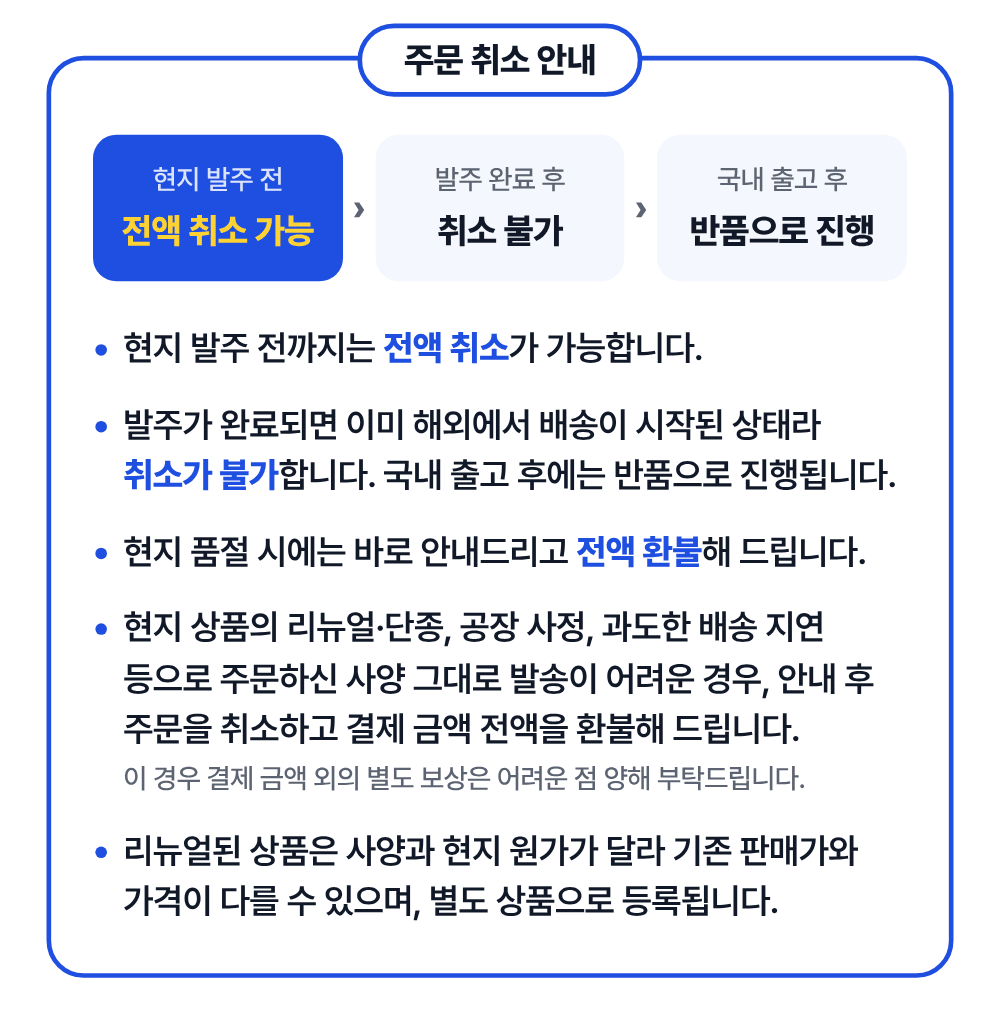
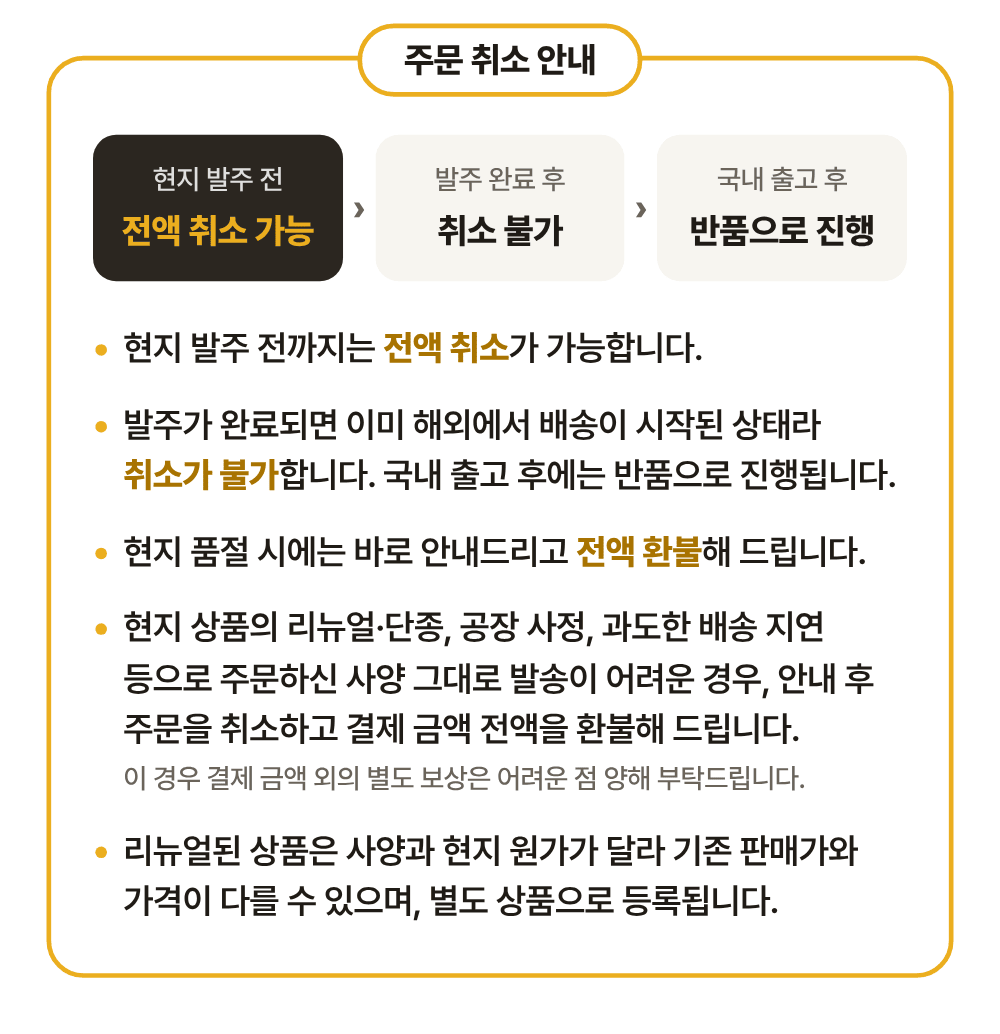
브랜드 컬러를 블루에서 차콜 + 골드로 변경
- 골드 #EBAE1F는 테두리·포인트·숫자에만, 진한 띠·블록은 차콜 #2B2620
- 흰 바탕 강조 글자는 딥 골드 #A87300, 보조면은 소프트 골드 #FCF3D9
- 로고: 골드 집 + 차콜 지구 (골드 배경용 차콜 버전 추가)
- 상단·하단·워터마크·프로필·배너·브랜드 가이드 전부 재생성

Claude-Session: https://claude.ai/code/session_01PE2ziTJ29XNj6qrJ9hNtvD

diff --git a/onnuri-design/src/bottom.html b/onnuri-design/src/bottom.html
@@ -5,85 +5,86 @@
   /* 헤더 */
   .hero { padding: 72px 40px 80px; text-align: center; }
   .hero .m { color: var(--gray); margin-bottom: 18px; }
-  .hero .notice { margin-top: 32px; display: inline-block; background: var(--main-soft); border-radius: 14px; padding: 8px 24px; color: var(--ink); }
+  .hero .notice { margin-top: 32px; display: inline-block; background: var(--gold-soft); border-radius: 14px; padding: 8px 24px; color: var(--ink); }
 
   /* 공통 글머리 목록 */
   .bul { list-style: none; margin-top: 36px; }
   .bul li { position: relative; padding-left: 26px; }
   .bul li + li { margin-top: 22px; }
-  .bul li::before { content: ""; position: absolute; left: 2px; top: 18px; width: 10px; height: 10px; border-radius: 50%; background: var(--main); }
-  .bul li b { color: var(--main); }
+  .bul li::before { content: ""; position: absolute; left: 2px; top: 18px; width: 10px; height: 10px; border-radius: 50%; background: var(--gold); }
+  .bul li b { color: var(--gold-deep); }
   .bul li .s { display: block; margin-top: 4px; }
   .sub { margin-top: 44px; padding-top: 36px; border-top: 2px dashed var(--line); }
-  .sub-t { color: var(--main); font-weight: 800; }
+  .sub-t { color: var(--gold-deep); font-weight: 800; }
 
-  /* 파란 강조 블록 */
-  .callout { margin-top: 28px; background: var(--main); color: #fff; border-radius: 24px; padding: 28px 24px; text-align: center; }
-  .callout .xl { color: var(--point); }
+  /* 차콜 강조 블록 */
+  .callout { margin-top: 28px; background: var(--dark); color: #fff; border-radius: 24px; padding: 28px 24px; text-align: center; }
+  .callout .xl { color: var(--gold); }
   .callout .xl small { font-size: var(--s); color: #fff; font-weight: 600; }
 
   /* 배송 6단계 */
   .steps { display: grid; grid-template-columns: repeat(6, 1fr); margin: 0 -28px; }
   .step { text-align: center; position: relative; }
   .step:not(:last-child)::after { content: ""; position: absolute; top: 46px; right: -10px; width: 20px; border-top: 3px dotted var(--line); }
-  .step .ico { position: relative; width: 92px; height: 92px; margin: 0 auto; border-radius: 50%; background: var(--main-soft); color: var(--main); display: grid; place-items: center; font-size: 46px; }
-  .step.last .ico { background: var(--main); color: #fff; }
-  .step .no { position: absolute; top: -6px; left: -6px; width: 34px; height: 34px; border-radius: 50%; background: var(--main); color: #fff; font-size: var(--s); font-weight: 800; display: grid; place-items: center; line-height: 1; }
-  .step.last .no { background: var(--ink); }
+  .step .ico { position: relative; width: 92px; height: 92px; margin: 0 auto; border-radius: 50%; background: var(--gold-soft); color: var(--gold-deep); display: grid; place-items: center; font-size: 46px; }
+  .step.last .ico { background: var(--dark); color: var(--gold); }
+  .step .no { position: absolute; top: -6px; left: -6px; width: 34px; height: 34px; border-radius: 50%; background: var(--gold); color: var(--ink); font-size: var(--s); font-weight: 800; display: grid; place-items: center; line-height: 1; }
+  .step.last .no { background: var(--gold); }
   .step .s { margin-top: 12px; color: var(--ink); font-weight: 700; }
 
   /* 띠 헤더 (개인통관고유부호) */
-  .band { background: var(--main); padding: 36px 40px; text-align: center; }
+  .band { background: var(--gold); padding: 36px 40px; text-align: center; }
   .band span { display: inline-block; background: #fff; border-radius: 20px; padding: 10px 40px; }
-  .band-end { height: 24px; background: var(--main); }
+  .band-end { height: 24px; background: var(--gold); }
   .pc { padding: 48px 40px 56px; }
   .pstep + .pstep { margin-top: 48px; }
   .pstep .head { display: flex; align-items: center; gap: 14px; }
-  .pstep .tag { flex: none; background: var(--main); color: #fff; border-radius: 10px; padding: 2px 14px; font-size: var(--s); font-weight: 800; }
-  .pstep .head .m { font-weight: 800; color: var(--main); }
-  .url { margin-top: 20px; display: flex; align-items: center; gap: 12px; background: var(--main); border-radius: 22px; padding: 16px 16px 16px 26px; color: #fff; font-size: var(--m); }
+  .pstep .tag { flex: none; background: var(--dark); color: var(--gold); border-radius: 10px; padding: 2px 14px; font-size: var(--s); font-weight: 800; }
+  .pstep .head .m { font-weight: 800; color: var(--ink); }
+  .url { margin-top: 20px; display: flex; align-items: center; gap: 12px; background: var(--dark); border-radius: 22px; padding: 16px 16px 16px 26px; color: #fff; font-size: var(--m); }
   .url span { flex: 1; background: #fff; color: var(--ink); border-radius: 999px; padding: 10px 28px; font-weight: 700; letter-spacing: 0; }
-  .search { margin: 16px auto 0; width: 420px; display: flex; justify-content: space-between; align-items: center; border: 3px solid var(--main); border-radius: 999px; padding: 8px 26px; font-weight: 700; }
-  .search svg { color: var(--main); stroke-width: 2.6; }
+  .search { margin: 16px auto 0; width: 420px; display: flex; justify-content: space-between; align-items: center; border: 3px solid var(--gold); border-radius: 999px; padding: 8px 26px; font-weight: 700; }
+  .search svg { color: var(--gold-deep); stroke-width: 2.6; }
   .choose { margin-top: 20px; display: grid; grid-template-columns: 1fr 1fr; gap: 16px; }
   .choose > div { border: 3px solid var(--ink); border-radius: 20px; padding: 18px; text-align: center; }
-  .choose > div.on .l { color: var(--main); }
+  .choose > div.on { border-color: var(--gold); background: var(--gold-soft); }
+  .choose > div.on .l { color: var(--gold-deep); }
   .form { margin-top: 20px; border: 2px solid var(--line); border-radius: 16px; overflow: hidden; }
   .form div { display: grid; grid-template-columns: 200px 1fr; border-top: 2px solid var(--line); }
   .form div:first-child { border-top: 0; }
-  .form b { background: var(--bg-2); color: var(--main); padding: 14px 20px; font-size: var(--s); }
+  .form b { background: var(--bg-2); color: var(--ink); padding: 14px 20px; font-size: var(--s); }
   .form i { font-style: normal; padding: 14px 20px; font-size: var(--s); color: var(--gray); }
 
   /* 관부가세 */
   .tax { display: grid; grid-template-columns: 1fr 1fr; }
   .tax > div { text-align: center; }
   .tax > div + div { border-left: 2px solid var(--line); }
-  .tax .xl { color: var(--main); }
+  .tax .xl { color: var(--gold-deep); }
   .tax .xl small { font-size: var(--m); color: var(--ink); font-weight: 700; }
   /* 착불 4조건 */
   .cod { margin-top: 24px; display: grid; grid-template-columns: repeat(4, 1fr); gap: 12px; }
   .cod > div { background: var(--bg-2); border-radius: 20px; padding: 22px 8px; text-align: center; }
-  .cod .lab { color: var(--main); font-size: var(--m); font-weight: 900; white-space: nowrap; }
+  .cod .lab { color: var(--gold-deep); font-size: var(--m); font-weight: 900; white-space: nowrap; }
   .cod .s { margin-top: 4px; line-height: 1.35; }
 
   /* 주문 취소 3단계 */
   .flow { display: grid; grid-template-columns: 1fr 28px 1fr 28px 1fr; align-items: center; }
   .flow > div:not(.ar) { border-radius: 20px; padding: 22px 8px; text-align: center; }
   .flow .ar { text-align: center; color: var(--gray); font-size: var(--m); font-weight: 800; }
-  .flow .f1 { background: var(--main); color: #fff; }
+  .flow .f1 { background: var(--dark); color: #fff; }
   .flow .f1 .s { color: rgba(255,255,255,.85); }
-  .flow .f1 .m { color: var(--point); }
+  .flow .f1 .m { color: var(--gold); }
   .flow .f2, .flow .f3 { background: var(--bg-2); }
   .flow .m { font-weight: 800; margin-top: 4px; }
 
   /* 교환·반품 2카드 */
   .rcard { display: grid; grid-template-columns: 1fr 1fr; gap: 16px; }
   .rcard > div { border-radius: 24px; padding: 26px 24px; }
-  .rcard .free { border: 3px solid var(--main); }
+  .rcard .free { border: 3px solid var(--gold); }
   .rcard .paid { background: var(--bg-2); }
   .tag2 { display: inline-block; border-radius: 8px; padding: 0 12px; font-size: var(--s); font-weight: 800; }
-  .tag2.me { background: var(--main); color: #fff; }
-  .tag2.you { background: var(--point); color: var(--ink); }
+  .tag2.me { background: var(--gold); color: var(--ink); }
+  .tag2.you { background: var(--dark); color: #fff; }
   .rcard .m { font-weight: 800; margin-top: 12px; }
   .rcard .s { margin-top: 8px; line-height: 1.45; }
 
@@ -94,10 +95,10 @@
   .pt span { padding: 18px 20px; font-size: var(--s); color: var(--ink); font-weight: 500; line-height: 1.5; }
 
   /* 고객센터 */
-  .cs { background: var(--main); color: #fff; text-align: center; padding: 72px 40px 80px; }
+  .cs { background: var(--dark); color: #fff; text-align: center; padding: 72px 40px 80px; }
   .cs .m { color: rgba(255,255,255,.9); }
   .cs .l { margin-top: 10px; }
-  .cs .tel { margin-top: 10px; font-size: var(--xl); font-weight: 900; color: var(--point); letter-spacing: -0.01em; line-height: 1.2; }
+  .cs .tel { margin-top: 10px; font-size: var(--xl); font-weight: 900; color: var(--gold); letter-spacing: -0.01em; line-height: 1.2; }
   .cs .time { margin-top: 28px; display: inline-block; border: 2px solid rgba(255,255,255,.5); border-radius: 999px; padding: 10px 32px; }
   .cs .s { margin-top: 20px; color: rgba(255,255,255,.85); }
 

diff --git a/onnuri-design/src/guide.html b/onnuri-design/src/guide.html
@@ -2,13 +2,14 @@
 <link rel="stylesheet" href="style.css">
 <style>
  body{width:1200px;padding:70px}
- h2{font-size:var(--m);font-weight:800;margin:56px 0 18px;color:var(--main)}
+ h2{font-size:var(--m);font-weight:800;margin:56px 0 18px;color:var(--gold-deep)}
  .row{display:flex;gap:20px}
  .sw{flex:1;border-radius:20px;overflow:hidden;border:2px solid var(--line)}
  .sw i{display:block;height:120px}
  .sw div{padding:16px 20px}
  .logos{display:flex;gap:20px}
- .logos > div{flex:1;border-radius:20px;height:200px;display:grid;place-items:center}
+ .logos{flex-direction:column}
+ .logos > div{flex:1;border-radius:20px;height:180px;display:grid;place-items:center}
  .type > div{border:2px solid var(--line);border-radius:20px;padding:22px 30px;margin-bottom:12px;display:flex;align-items:center;gap:24px}
  .type .s{width:320px;flex:none}
  ul.rule{list-style:none;border:2px solid var(--line);border-radius:20px;padding:10px 30px}
@@ -20,14 +21,15 @@
 <h2>로고</h2>
 <div class="logos">
  <div style="border:2px solid var(--line)"><div class="brand"><img src="logo.svg" width="84" height="84"><div class="name">온누리하우스</div></div></div>
- <div style="background:var(--main)"><div class="brand"><img src="logo-white.svg" width="84" height="84"><div class="name" style="color:#fff">온누리하우스</div></div></div>
+ <div style="background:var(--dark)"><div class="brand"><img src="logo.svg" width="84" height="84"><div class="name" style="color:#fff">온누리하우스</div></div></div>
+ <div style="background:var(--gold)"><div class="brand"><img src="logo-dark.svg" width="84" height="84"><div class="name" style="color:var(--dark)">온누리하우스</div></div></div>
 </div>
-<h2>컬러 — 블루 하나로 통일, 옐로는 핵심 강조 한 곳만</h2>
+<h2>컬러 — 차콜 + 골드, 골드는 넓게 칠하지 않고 포인트로만</h2>
 <div class="row">
- <div class="sw"><i style="background:#1F4FE0"></i><div><div class="m"><b>온누리 블루</b></div><div class="s">#1F4FE0 · 메인</div></div></div>
- <div class="sw"><i style="background:#FFD233"></i><div><div class="m"><b>옐로</b></div><div class="s">#FFD233 · 강조</div></div></div>
- <div class="sw"><i style="background:#EAF0FF"></i><div><div class="m"><b>라이트 블루</b></div><div class="s">#EAF0FF · 보조면</div></div></div>
- <div class="sw"><i style="background:#111827"></i><div><div class="m"><b>블랙</b></div><div class="s">#111827 · 본문</div></div></div>
+ <div class="sw"><i style="background:#EBAE1F"></i><div><div class="m"><b>온누리 골드</b></div><div class="s">#EBAE1F · 테두리·포인트</div></div></div>
+ <div class="sw"><i style="background:#2B2620"></i><div><div class="m"><b>차콜</b></div><div class="s">#2B2620 · 진한 띠·블록</div></div></div>
+ <div class="sw"><i style="background:#A87300"></i><div><div class="m"><b>딥 골드</b></div><div class="s">#A87300 · 흰 바탕 강조 글자</div></div></div>
+ <div class="sw"><i style="background:#FCF3D9"></i><div><div class="m"><b>소프트 골드</b></div><div class="s">#FCF3D9 · 보조면</div></div></div>
 </div>
 <h2>글씨 크기 — 이 4단계만 사용 (Pretendard)</h2>
 <div class="type">
@@ -38,8 +40,8 @@
 </div>
 <h2>구성 규칙</h2>
 <ul class="rule m">
- <li>· 섹션은 파란 테두리 박스 + 위에 걸친 알약 제목으로 통일</li>
- <li>· 핵심 결론은 박스 아래 파란 띠에 흰 글씨 / 옐로 숫자</li>
+ <li>· 섹션은 골드 테두리 박스 + 위에 걸친 알약 제목으로 통일</li>
+ <li>· 핵심 숫자·결론은 차콜 블록에 골드 글씨</li>
  <li>· 폭 860px, 좌우 여백 40px, 섹션 간격 96px</li>
 </ul>
 </body></html>

diff --git a/onnuri-design/src/style.css b/onnuri-design/src/style.css
@@ -1,6 +1,6 @@
 /* ============================================================
    온누리하우스 브랜드 시스템
-   - 컬러: 온누리 블루(메인) + 흰 배경 + 옐로(강조 한 곳에만)
+   - 컬러: 흰 배경 + 차콜(진한 띠) + 골드(테두리·포인트만)
    - 글씨 크기는 아래 4단계만 사용 (임의 크기 금지)
    ============================================================ */
 @font-face { font-family: "Pretendard"; font-weight: 500; src: url("../fonts/Pretendard-Medium.otf"); }
@@ -10,15 +10,15 @@
 @font-face { font-family: "Pretendard"; font-weight: 900; src: url("../fonts/Pretendard-Black.otf"); }
 
 :root {
-  --main: #1F4FE0;       /* 온누리 블루 */
-  --main-dark: #12308F;
-  --main-soft: #EAF0FF;
-  --point: #FFD233;      /* 옐로: 핵심 숫자·강조에만 */
-  --ink: #111827;
-  --gray: #5B6475;
-  --line: #D5DEF5;
+  --gold: #EBAE1F;       /* 온누리 골드: 테두리·포인트·숫자 (넓게 칠하지 않음) */
+  --gold-deep: #A87300;  /* 흰 바탕 위 강조 글자 */
+  --gold-soft: #FCF3D9;  /* 아주 옅은 보조면 */
+  --dark: #2B2620;       /* 차콜: 진한 띠·블록 */
+  --ink: #1F1B16;
+  --gray: #6B645A;
+  --line: #ECE3CF;
   --bg: #FFFFFF;
-  --bg-2: #F4F7FD;
+  --bg-2: #F7F5F0;
 
   /* 글씨 크기 4단계 */
   --xl: 64px;   /* 핵심 숫자·대표 문구 */
@@ -35,17 +35,17 @@ b { font-weight: 800; }
 .l  { font-size: var(--l);  font-weight: 800; line-height: 1.3; }
 .m  { font-size: var(--m);  font-weight: 600; }
 .s  { font-size: var(--s);  font-weight: 500; color: var(--gray); }
-.c-main { color: var(--main); }
-.c-point { color: var(--point); }
+.c-main { color: var(--gold-deep); }
+.c-point { color: var(--gold); }
 .ic { width: 1em; height: 1em; fill: none; stroke: currentColor; stroke-width: 1.9; stroke-linecap: round; stroke-linejoin: round; }
 
 /* 로고 */
 .brand { display: flex; align-items: center; justify-content: center; gap: 18px; }
-.brand .name { font-size: var(--xl); font-weight: 900; color: var(--main); letter-spacing: -0.05em; line-height: 1; }
+.brand .name { font-size: var(--xl); font-weight: 900; color: var(--ink); letter-spacing: -0.05em; line-height: 1; }
 
 /* 레퍼런스 구조: 테두리 박스 + 위에 걸친 알약 제목 */
-.box { position: relative; margin: 0 40px; border: 4px solid var(--main); border-radius: 32px; background: #fff; overflow: visible; }
-.box > .pill { position: absolute; top: 0; left: 50%; transform: translate(-50%, -50%); background: #fff; border: 4px solid var(--main); border-radius: 999px; padding: 6px 36px; font-size: var(--m); font-weight: 800; white-space: nowrap; }
+.box { position: relative; margin: 0 40px; border: 4px solid var(--gold); border-radius: 32px; background: #fff; overflow: visible; }
+.box > .pill { position: absolute; top: 0; left: 50%; transform: translate(-50%, -50%); background: #fff; border: 4px solid var(--gold); border-radius: 999px; padding: 6px 36px; font-size: var(--m); font-weight: 800; white-space: nowrap; }
 .box-in { padding: 64px 36px 40px; }
-.box-foot { background: var(--main); color: #fff; margin: 0 -4px -4px; border-radius: 0 0 32px 32px; padding: 32px 30px; text-align: center; }
+.box-foot { background: var(--dark); color: #fff; margin: 0 -4px -4px; border-radius: 0 0 32px 32px; padding: 32px 30px; text-align: center; }
 .gap { height: 96px; }

diff --git a/onnuri-design/src/banner.html b/onnuri-design/src/banner.html
@@ -2,13 +2,13 @@
 <link rel="stylesheet" href="style.css">
 <style>
  html{overflow:hidden}
- body{width:1280px;height:480px;background:var(--main);color:#fff;position:relative}
+ body{width:1280px;height:480px;background:var(--dark);color:#fff;position:relative}
  .l{position:absolute;left:90px;top:0;bottom:0;display:flex;flex-direction:column;justify-content:center}
- .l .m{color:rgba(255,255,255,.9)}
+ .l .m{color:rgba(255,255,255,.8)}
  .l .xl{margin-top:10px;font-size:88px}
- .l .xl span{color:var(--point)}
+ .l .xl span{color:var(--gold)}
  .chips{margin-top:32px;display:flex;gap:12px}
- .chips span{background:#fff;color:var(--main);border-radius:999px;padding:10px 26px;font-size:var(--s);font-weight:800}
+ .chips span{border:2px solid var(--gold);color:var(--gold);border-radius:999px;padding:8px 26px;font-size:var(--s);font-weight:800}
  .logo{position:absolute;right:110px;top:50%;transform:translateY(-50%)}
 </style></head><body>
 <div class="l">
@@ -16,5 +16,5 @@
  <div class="xl"><span>온누리</span>하우스</div>
  <div class="chips"><span>현지 정식 구매</span><span>꼼꼼한 검수</span><span>안전한 포장</span></div>
 </div>
-<img class="logo" src="logo-white.svg" width="300" height="300" alt="">
+<img class="logo" src="logo.svg" width="300" height="300" alt="">
 </body></html>

diff --git a/onnuri-design/src/top.html b/onnuri-design/src/top.html
@@ -4,11 +4,11 @@
 <style>
   .head { padding: 36px 40px 32px; }
   .head .brand .name { font-size: var(--l); }
-  .opt { background: var(--main); color: #fff; text-align: center; padding: 48px 40px 44px; }
+  .opt { background: var(--dark); color: #fff; text-align: center; padding: 48px 40px 44px; }
   .opt .s { color: rgba(255,255,255,.85); font-weight: 700; }
   .opt .l { margin-top: 8px; }
-  .opt .l span { background: #fff; color: var(--main); border-radius: 10px; padding: 0 10px; }
-  .opt .down { margin-top: 22px; display: inline-flex; align-items: center; gap: 8px; color: var(--point); font-size: var(--s); font-weight: 800; }
+  .opt .l span { background: var(--gold); color: var(--ink); border-radius: 10px; padding: 0 10px; }
+  .opt .down { margin-top: 22px; display: inline-flex; align-items: center; gap: 8px; color: var(--gold); font-size: var(--s); font-weight: 800; }
   .opt .down svg { stroke-width: 2.6; }
 </style></head>
 <body>

diff --git a/onnuri-design/src/profile.html b/onnuri-design/src/profile.html
@@ -2,9 +2,9 @@
 <link rel="stylesheet" href="style.css">
 <style>
  html{overflow:hidden}
- body{width:1000px;height:1000px;background:var(--main);display:grid;place-items:center}
+ body{width:1000px;height:1000px;background:var(--gold);display:grid;place-items:center}
  .c{text-align:center}
- .c .name{font-size:120px;font-weight:900;color:#fff;letter-spacing:-.05em;margin-top:40px;line-height:1}
+ .c .name{font-size:120px;font-weight:900;color:var(--dark);letter-spacing:-.05em;margin-top:40px;line-height:1}
 </style></head><body>
-<div class="c"><img src="logo-white.svg" width="360" height="360" alt=""><div class="name">온누리하우스</div></div>
+<div class="c"><img src="logo-dark.svg" width="360" height="360" alt=""><div class="name">온누리하우스</div></div>
 </body></html>

diff --git a/onnuri-design/src/watermark.html b/onnuri-design/src/watermark.html
@@ -6,7 +6,7 @@
  /* 어떤 사진 위에서도 보이도록 흰 외곽선 */
  #wm{display:inline-flex;align-items:center;gap:8px;padding:6px}
  #wm img{width:52px;height:52px;filter:drop-shadow(0 0 1.5px #fff) drop-shadow(0 0 1.5px #fff)}
- #wm span{font-size:36px;font-weight:900;color:var(--main);letter-spacing:-.05em;line-height:1;-webkit-text-stroke:5px #fff;paint-order:stroke fill}
+ #wm span{font-size:36px;font-weight:900;color:var(--ink);letter-spacing:-.05em;line-height:1;-webkit-text-stroke:5px #fff;paint-order:stroke fill}
  #wm.white img{filter:drop-shadow(0 0 1.5px rgba(0,0,0,.35))}
  #wm.white span{color:#fff;-webkit-text-stroke:4px rgba(0,0,0,.18)}
 </style></head><body>
